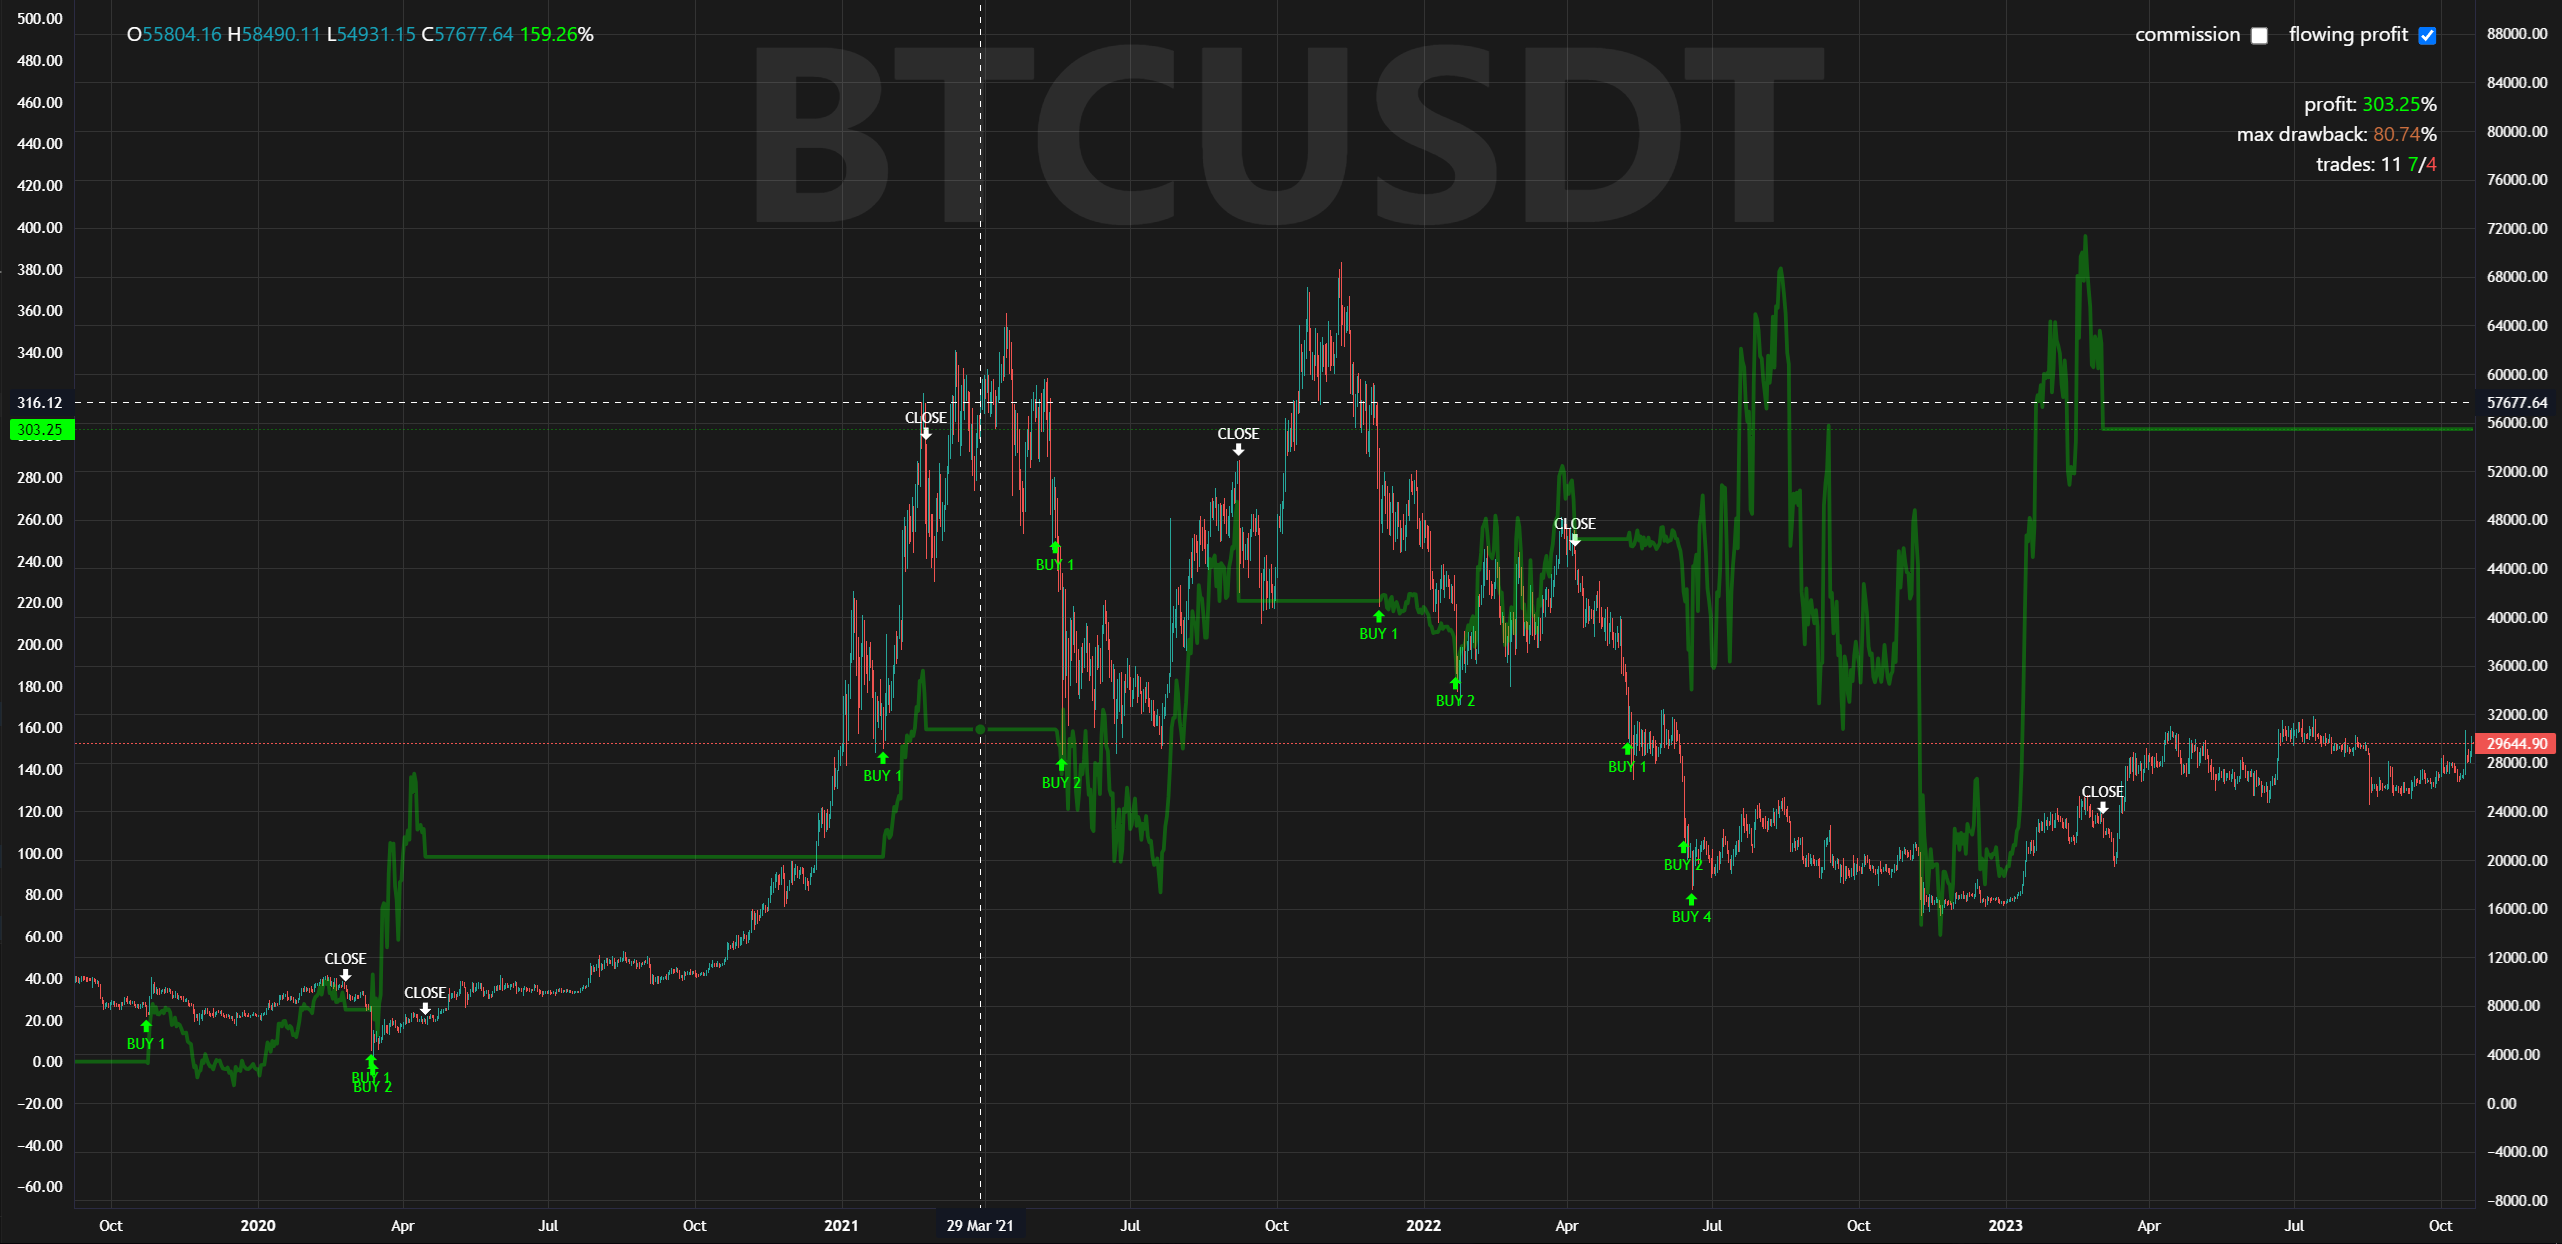
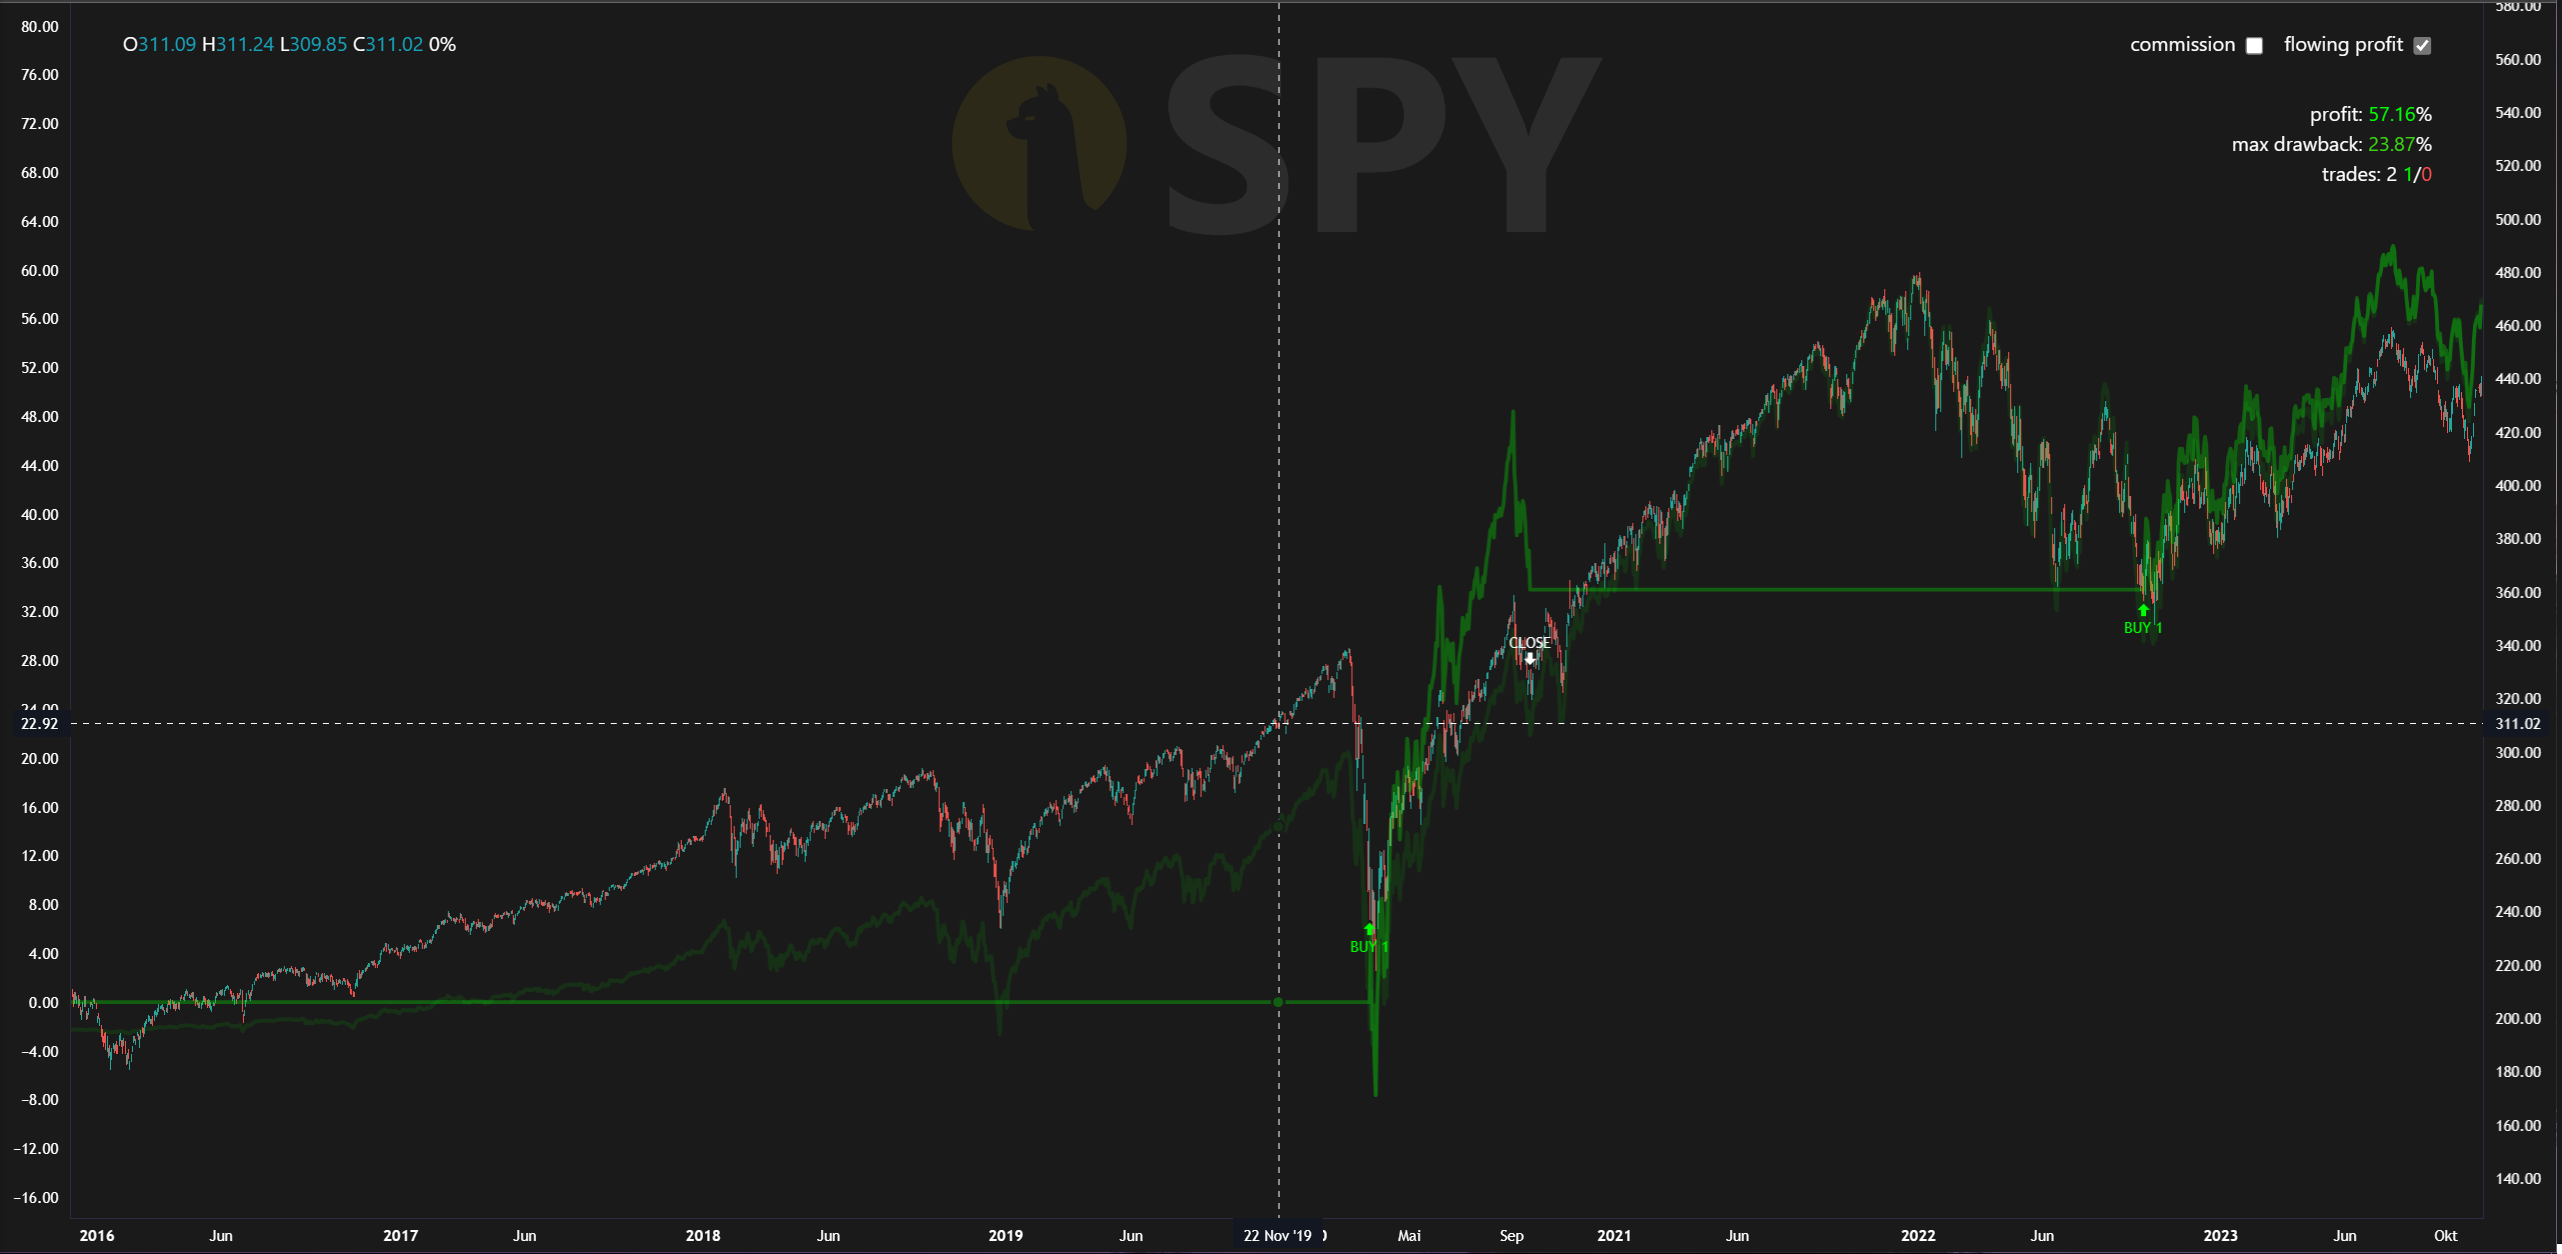
update images

diff --git a/src/app/chart.service.ts b/src/app/chart.service.ts
@@ -12,7 +12,7 @@ export class ChartService {
 
   // general
   public exchange = 'alpaca'; // binance, alpaca or kucoin; binance spot: BTCUSDT, kucoin futures: XBTUSDTM, alpaca: SPY
-  public symbol = 'AI';
+  public symbol = 'SPY';
   public timeframe = '1d';  // 1m, 5m, 15m, 1h... 1d...
   public times = 10;  // 1 = 1000 timeframes
   public commission = 0.04;
